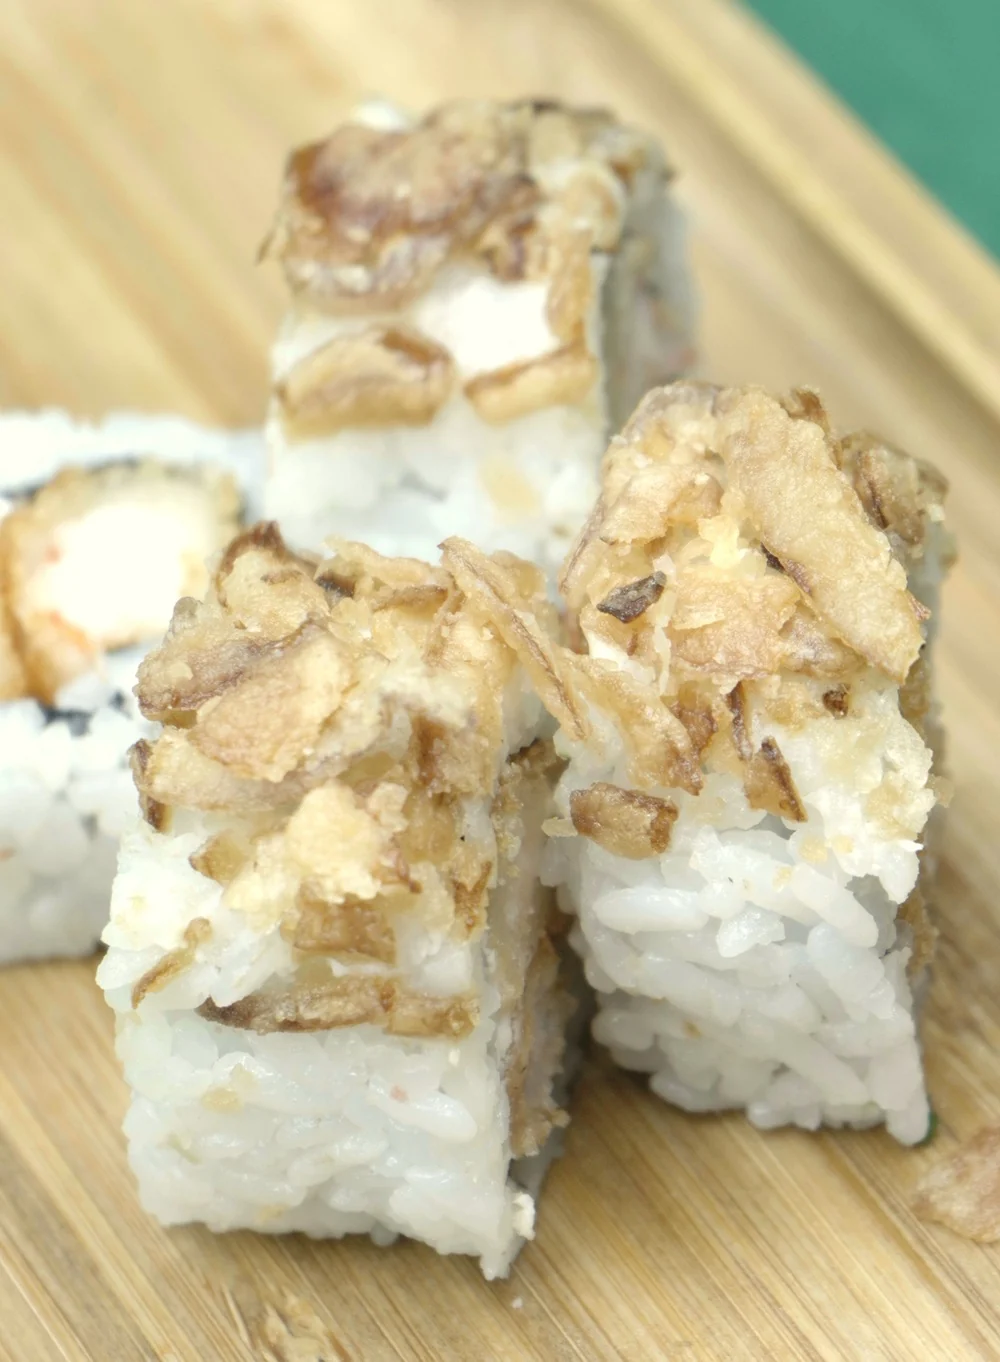
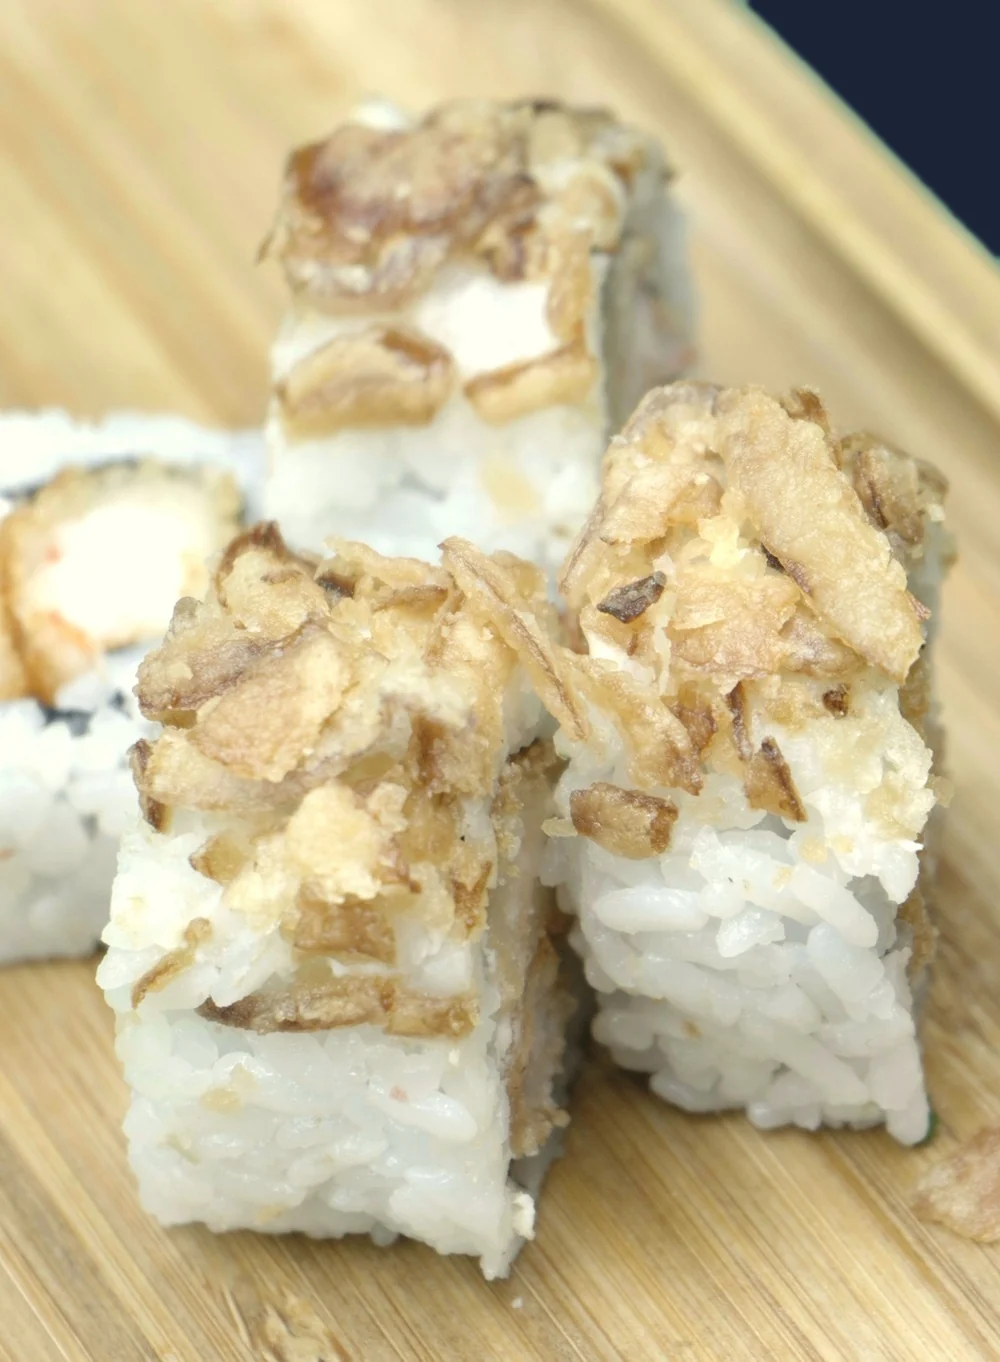
Photos naturelles sur fond bleu nuit, loupes retirées, plus de mention « Indigo » visible

Changed region(s): [[0.744, 0.0, 1.0, 0.2159]]

diff --git a/assets/site.css b/assets/site.css
@@ -1,4 +1,4 @@
-/* Twins Sushi — design Indigo (maquette 1b). Généré par maquettes/_outils/make_site_assets.py : ne pas éditer à la main. */
+/* Twins Sushi — design du site (maquette 1b). Généré par maquettes/_outils/make_site_assets.py : ne pas éditer à la main. */
 /* Twins Sushi — maquettes Indigo : base commune (panier, formulaires, composeur de box, infos).
    Couleurs de l'Édition Indigo (docs/graphic-system.md) : fond RVB 24/33/48, texte #F3EDE2, or #E0BC78, rouge #C21A31.
    Polices : Instrument Serif + Manrope (Google Fonts, comme le site actuel) ; Shippori Mincho en local pour les kanji. */

diff --git a/assets/site.js b/assets/site.js
@@ -1,5 +1,5 @@
 /* Twins Sushi — interactions du site (généré par maquettes/_outils/make_site_assets.py).
-   Noyau des maquettes Indigo.
+   Noyau des maquettes.
    Reprend les fonctions du site actuel (assets/app.js, assets/home.js) :
    carte, recherche, filtres Végé / Épicé, navigation par rubrique, panier, commande WhatsApp,
    « composez votre box », horaires du jour, thème clair / sombre, plan chargé au clic.

diff --git a/index.php b/index.php
@@ -1,5 +1,5 @@
 <?php
-/* Twins Sushi — page publique (design Indigo, maquette 1b), générée à partir de la base Supabase */
+/* Twins Sushi — page publique (La Carte · Twins Sushi), générée à partir de la base Supabase */
 declare(strict_types=1);
 require __DIR__ . '/inc/bootstrap.php';
 date_default_timezone_set('Africa/Casablanca');
@@ -105,7 +105,7 @@ foreach ($cats as $c) foreach ($c['items'] as $i) $byName[$i['name']] = $i + ['c
 $sigNames = ['Twins Deluxe', 'Dragon Roll', 'Crunchy Crevette', 'Okinawa Anguille'];
 /* Photos de biais du shooting (assets/beaute/) ; sans photo de biais : plateau vu de dessus + loupe. */
 $sigBeau = ['Dragon Roll' => 'dragon-naturel', 'Crunchy Crevette' => 'crunchy-naturel', 'Okinawa Anguille' => 'okinawa-naturel'];   /* photos naturelles, recette unique (25 nov. 2026) */
-$sigLoupe = ['Twins Deluxe' => 'loupe-twins-deluxe'];
+$sigLoupe = [];   /* loupes retirées (petits recadrages agrandis), Houssam 25 nov. 2026 */
 /* Box à composer : le client choisit librement ses 4 rolls dans ces rubriques (Houssam, 22 novembre 2026). */
 $boxCats = ['street-rolls', 'spring', 'signature-rolls', 'california', 'crousty', 'aromaki', 'maki'];
 $sigs = [];
@@ -136,7 +136,7 @@ foreach ($cats as $k => $c) {
 $daymap = ['0' => 'Sunday', '1' => 'Monday', '2' => 'Tuesday', '3' => 'Wednesday', '4' => 'Thursday', '5' => 'Friday', '6' => 'Saturday'];
 $ld = [
     '@context' => 'https://schema.org', '@type' => 'Restaurant', 'name' => 'Twins Sushi',
-    'url' => $S['url'], 'image' => $S['url'] . '/assets/img/og-indigo.jpg', 'logo' => $S['url'] . '/assets/img/icon-512.png',
+    'url' => $S['url'], 'image' => $S['url'] . '/assets/img/og-twins-sushi.jpg', 'logo' => $S['url'] . '/assets/img/icon-512.png',
     'telephone' => $S['tel'], 'email' => $S['email'], 'servesCuisine' => ['Sushi', 'Japonaise', 'Asiatique'],
     'currenciesAccepted' => 'MAD', 'acceptsReservations' => false,
     'address' => ['@type' => 'PostalAddress', 'streetAddress' => $S['rue'], 'addressLocality' => $S['ville'],
@@ -189,8 +189,8 @@ header('Cache-Control: public, max-age=120');
 <link rel="manifest" href="site.webmanifest">
 <meta property="og:type" content="restaurant"><meta property="og:locale" content="fr_MA"><meta property="og:site_name" content="Twins Sushi">
 <meta property="og:title" content="Twins Sushi · Sushis à Maârif, Casablanca"><meta property="og:description" content="<?= h($desc) ?>">
-<meta property="og:url" content="<?= h($S['url']) ?>/"><meta property="og:image" content="<?= h($S['url']) ?>/assets/img/og-indigo.jpg"><meta property="og:image:width" content="1200"><meta property="og:image:height" content="630">
-<meta name="twitter:card" content="summary_large_image"><meta name="twitter:image" content="<?= h($S['url']) ?>/assets/img/og-indigo.jpg">
+<meta property="og:url" content="<?= h($S['url']) ?>/"><meta property="og:image" content="<?= h($S['url']) ?>/assets/img/og-twins-sushi.jpg"><meta property="og:image:width" content="1200"><meta property="og:image:height" content="630">
+<meta name="twitter:card" content="summary_large_image"><meta name="twitter:image" content="<?= h($S['url']) ?>/assets/img/og-twins-sushi.jpg">
 <link rel="preconnect" href="https://fonts.googleapis.com"><link rel="preconnect" href="https://fonts.gstatic.com" crossorigin>
 <link rel="stylesheet" href="https://fonts.googleapis.com/css2?family=Instrument+Serif:ital@0;1&family=Manrope:wght@400;500;600;700;800&display=swap">
 <link rel="stylesheet" href="<?= h($fontJp) ?>">
@@ -205,7 +205,7 @@ header('Cache-Control: public, max-age=120');
 <header class="bar"><div class="wrap">
 <a class="brand" href="#top" aria-label="Twins Sushi, haut de page"><img class="logo-d" src="assets/img/logo-creme-240.webp" alt="Twins Sushi" width="66" height="60"><img class="logo-l" src="assets/img/logo-96.webp" alt="Twins Sushi" width="66" height="60"></a>
 <nav class="nav" aria-label="Navigation principale"><a href="#carte">La carte</a><a href="#commander">Commander</a><a href="#infos">Infos pratiques</a></nav>
-<button class="theme" type="button" aria-label="Changer de thème (indigo / crème)" title="Indigo / crème"><?= $ICON['moon'] ?></button>
+<button class="theme" type="button" aria-label="Changer de thème (sombre / clair)" title="Sombre / clair"><?= $ICON['moon'] ?></button>
 <button class="cart-btn" type="button" data-open-cart aria-label="Voir ma commande"><?= $ICON['bag'] ?><span class="lbl">Ma commande</span><span class="n cart-count">0</span></button>
 </div></header>
 
